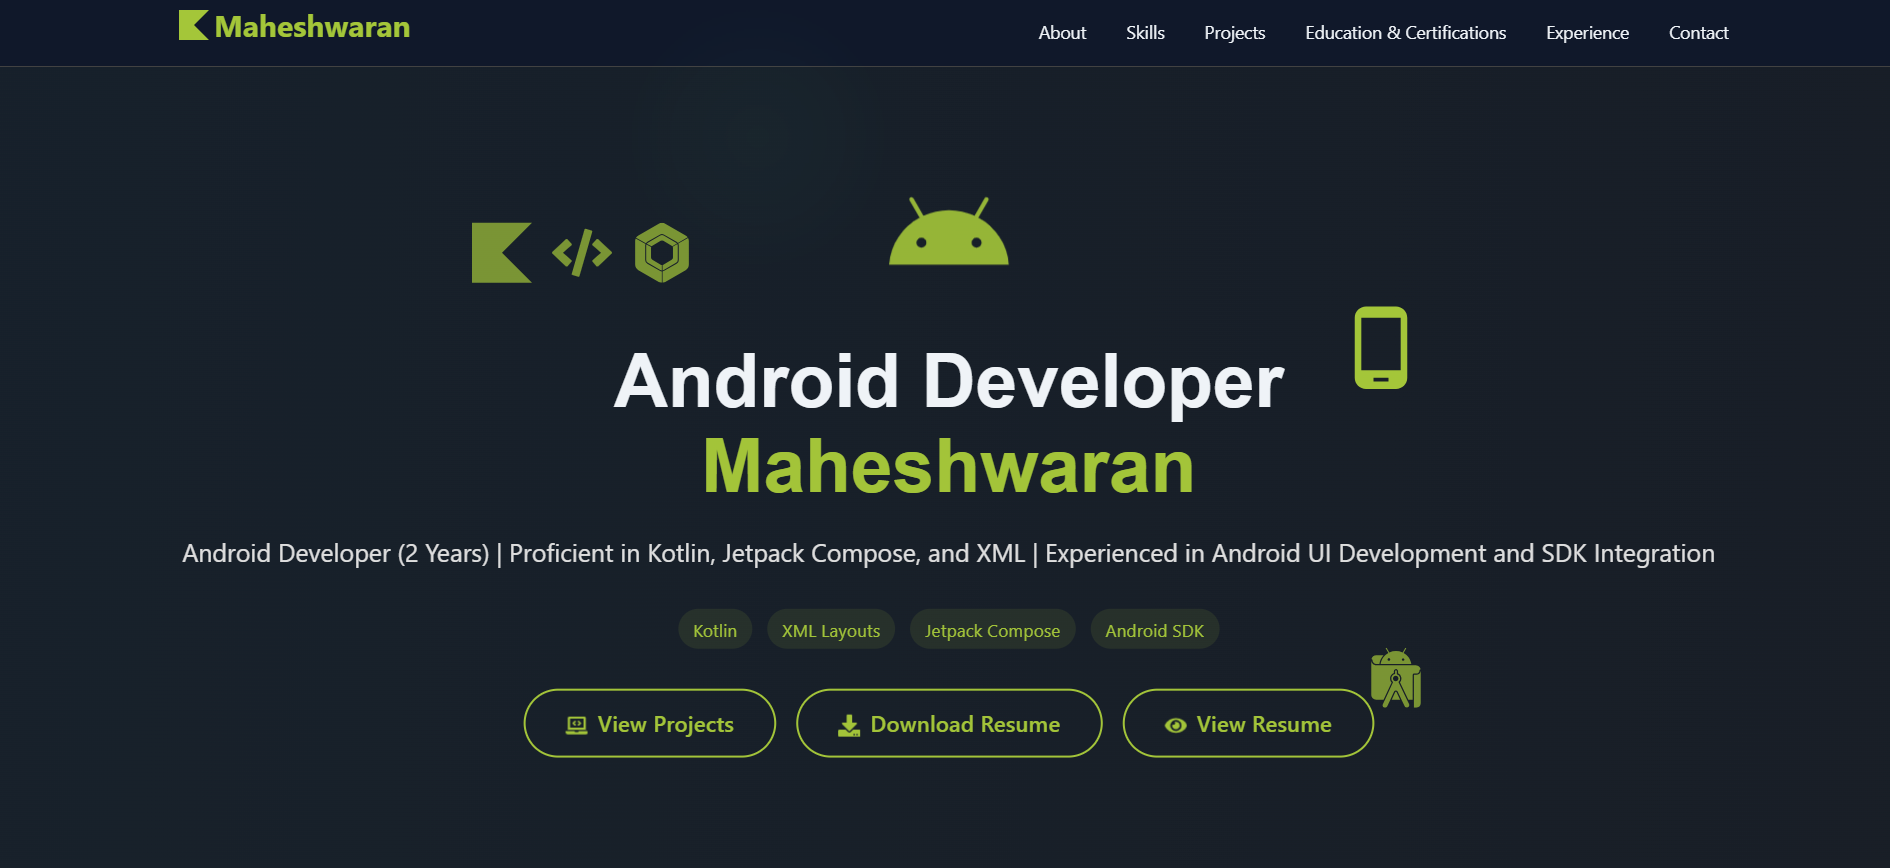
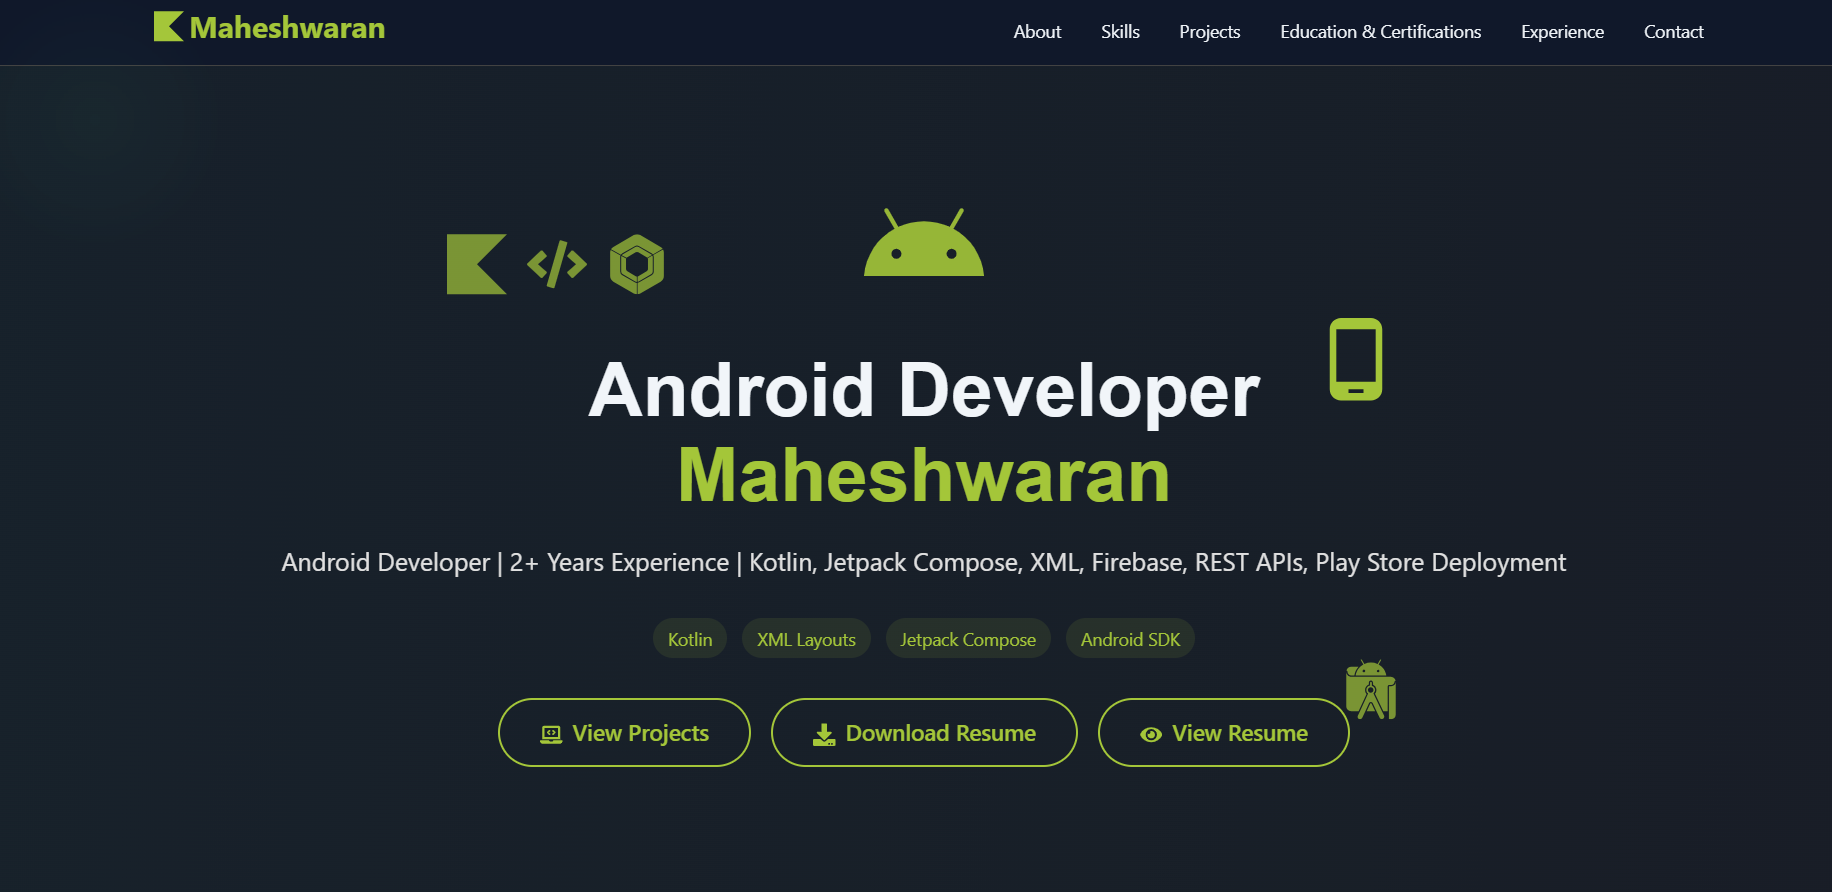
Refactor portfolio content and improve professional presentation

diff --git a/src/App.jsx b/src/App.jsx
@@ -7,6 +7,8 @@ import { useInView } from 'react-intersection-observer';
 import emailjs from '@emailjs/browser';
 import { FaEye } from "react-icons/fa";
 
+console.log("ALL ENV:", import.meta.env);
+
 const App = () => {
   const [ref] = useInView({
     triggerOnce: true,
@@ -193,15 +195,15 @@ const App = () => {
     setSubmitStatus(null);
 
     // Validate environment variables before submitting
-    const serviceId = import.meta.env.VITE_EMAIL_SERVICE_ID;
-    const templateId = import.meta.env.VITE_EMAIL_TEMPLATE_ID;
-    const publicKey = import.meta.env.VITE_EMAIL_PUBLIC_KEY;
+          const serviceId = import.meta.env.VITE_EMAILJS_SERVICE_ID;
+          const templateId = import.meta.env.VITE_EMAILJS_TEMPLATE_ID;
+          const publicKey = import.meta.env.VITE_EMAILJS_PUBLIC_KEY;
 
     if (!serviceId || !templateId || !publicKey) {
       console.error('Missing EmailJS Configuration:', {
         serviceId: serviceId || 'MISSING',
         templateId: templateId || 'MISSING',
-        publicKey: publicKey ? 'Set' : 'MISSING'
+        publicKey: publicKey  || 'MISSING'
       });
       setSubmitStatus('error');
       setIsSubmitting(false);
@@ -658,7 +660,7 @@ const App = () => {
             className="text-base md:text-xl mb-6 md:mb-8 text-gray-300"
             variants={fadeInUp}
           >
-           Android Developer (2 Years) | Proficient in Kotlin, Jetpack Compose, and XML | Experienced in Android UI Development and SDK Integration
+           Android Developer | 2+ Years Experience | Kotlin, Jetpack Compose, XML, Firebase, REST APIs, Play Store Deployment
           </motion.p>
 
           {/* Skill tags */}
@@ -821,7 +823,7 @@ const App = () => {
                 </div>
                 <ul className="space-y-2 text-gray-300">
                   <li>• Kotlin</li>
-                  <li>• Jetpack Compose & XML Layouts & Views</li>
+                  <li>• Jetpack Compose, XML Layouts, Custom Views </li>
                   <li>• Android SDK & Components </li>
                   <li>• MVVM Architecture</li>
                   <li>• Location Services & GPS</li>
@@ -842,7 +844,7 @@ const App = () => {
                 <ul className="space-y-2 text-gray-300">
                   <li>• MVVM Pattern</li>
                   <li>• Repository Pattern</li>
-                  <li>• RESTful API Integration</li>
+                  <li>• REST API Integration (Retrofit, OkHttp)</li>
                   <li>• Material Design Principles</li>
                   <li>• Third-party Library Integration</li>
                 </ul>
@@ -1044,7 +1046,7 @@ const App = () => {
                   <FaGraduationCap className="text-2xl text-primary" />
                   <h3 className="text-xl font-bold">Bachelor of Engineering – Computer Science and Engineering</h3>
                 </div>
-                <p className="text-primary mb-2">Jeppiaar Engineering College, Chennai | 2019 – 2023</p>
+                <p className="text-primary mb-2">Jeppiaar Engineering College, Chennai ( 2019 – 2023 )</p>
                 <p className="text-gray-300 mb-2">
                   Completed comprehensive coursework in software engineering, data structures, and algorithms.
                 </p>
@@ -1064,7 +1066,7 @@ const App = () => {
                   <FaCode className="text-2xl text-primary" />
                   <h3 className="text-xl font-bold">Java Full Stack Development Certification</h3>
                 </div>
-                <p className="text-primary mb-2">Q-Spiders, Chennai | August 2023 – February 2024</p>
+                <p className="text-primary mb-2">Q-Spiders, Chennai ( August 2023 – February 2024 )</p>
                 <p className="text-gray-300 mb-2">Completed an intensive training program covering:</p>
                 <ul className="text-gray-300 list-disc pl-5 space-y-1">
                   <li>Core Java – Object-Oriented Programming, Collections, Exception Handling</li>
@@ -1107,10 +1109,10 @@ const App = () => {
               whileHover={cardHoverAnimation.whileHover}
             >
               <div className="bg-dark/50 p-6 rounded-xl border border-gray-800">
-                <h3 className="text-xl font-bold mb-2">Junior Android Developer</h3>
+                <h3 className="text-xl font-bold mb-2">Android Developer</h3>
                 <p className="block text-primary mt-2">Milespeak Technologies • 2024 - Present</p>
                 <ul className="space-y-2 text-gray-300">
-                  <li>• Developed and maintained multiple Android applications using Kotlin</li>
+                  <li>• Developed and maintained production Android applications using Kotlin, improving performance, stability, and user experience.</li>
                   <li>• Built responsive UIs using XML layouts, Jetpack Compose, and Material Design principles</li>
                   <li>• Integrated RESTful APIs using Retrofit and OkHttp</li>
                   <li>• Implemented local data storage solutions using Room database and SharedPreferences</li>